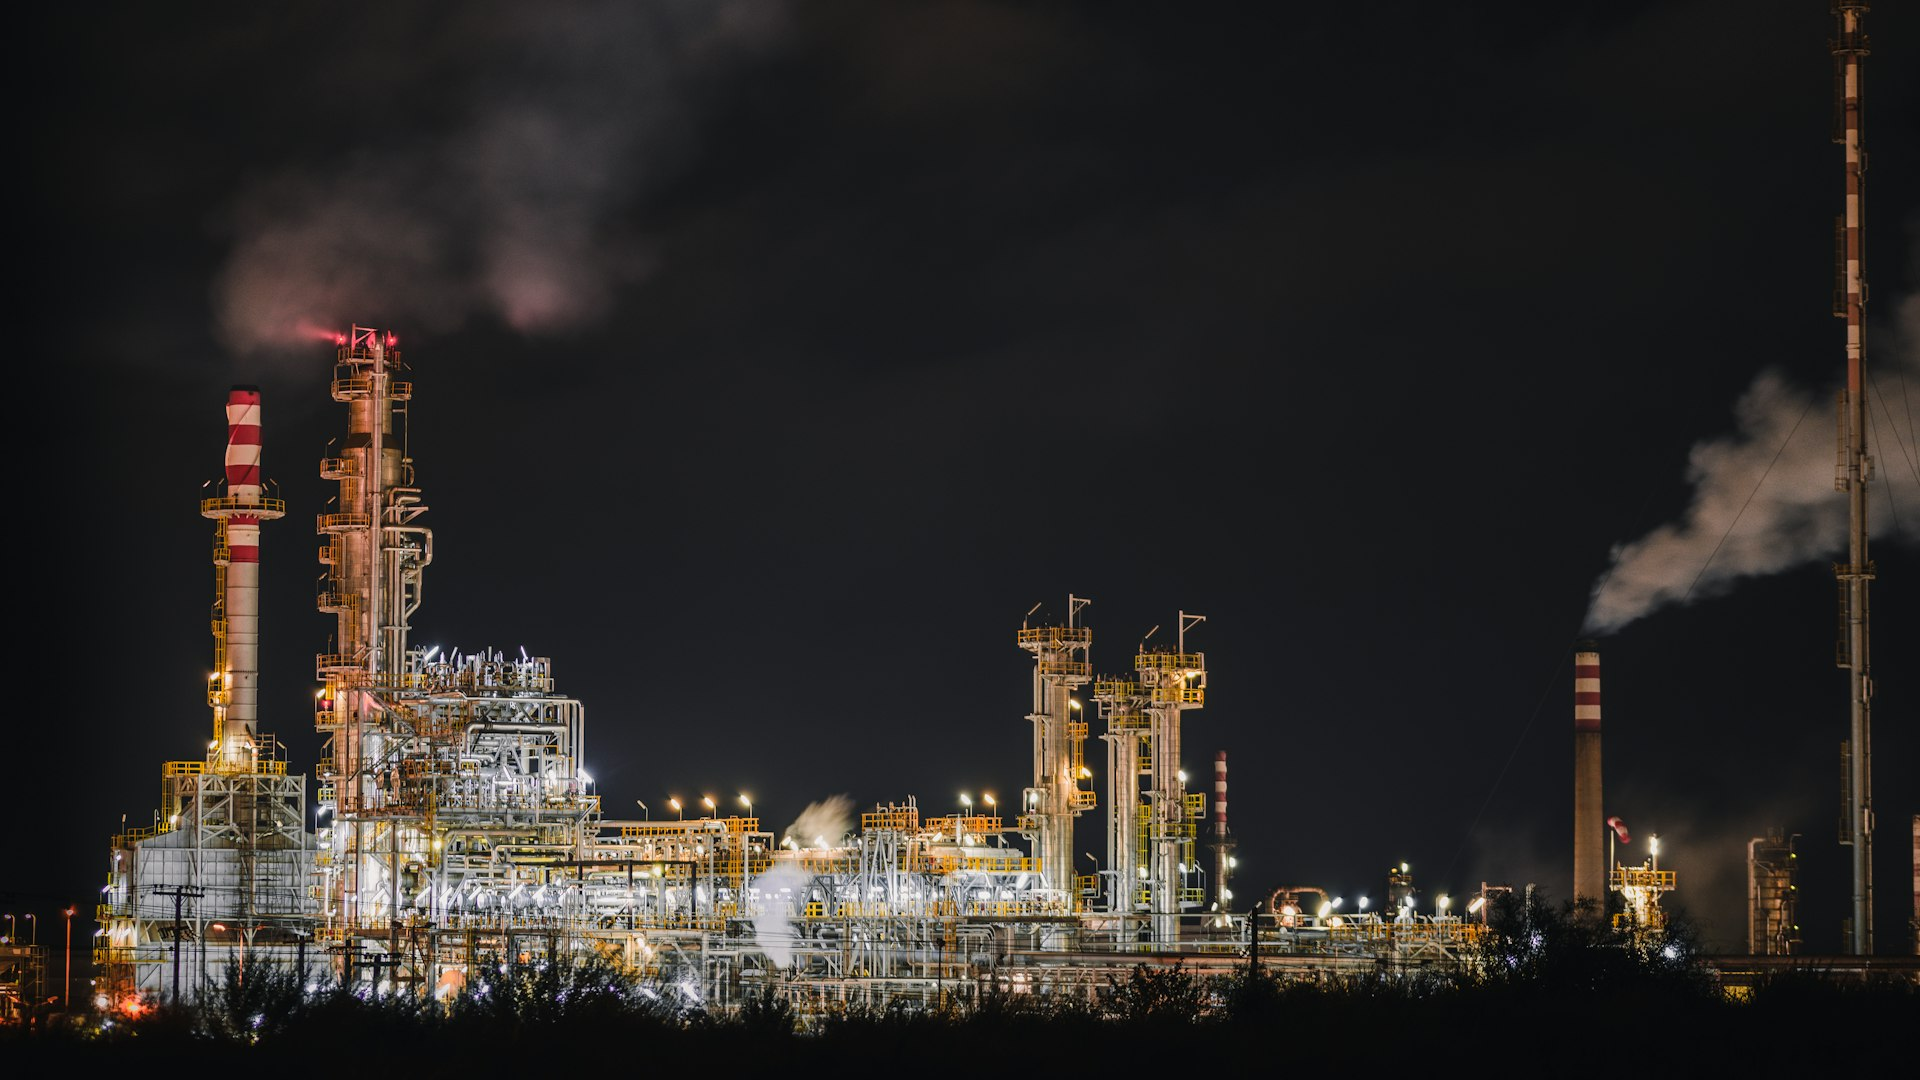
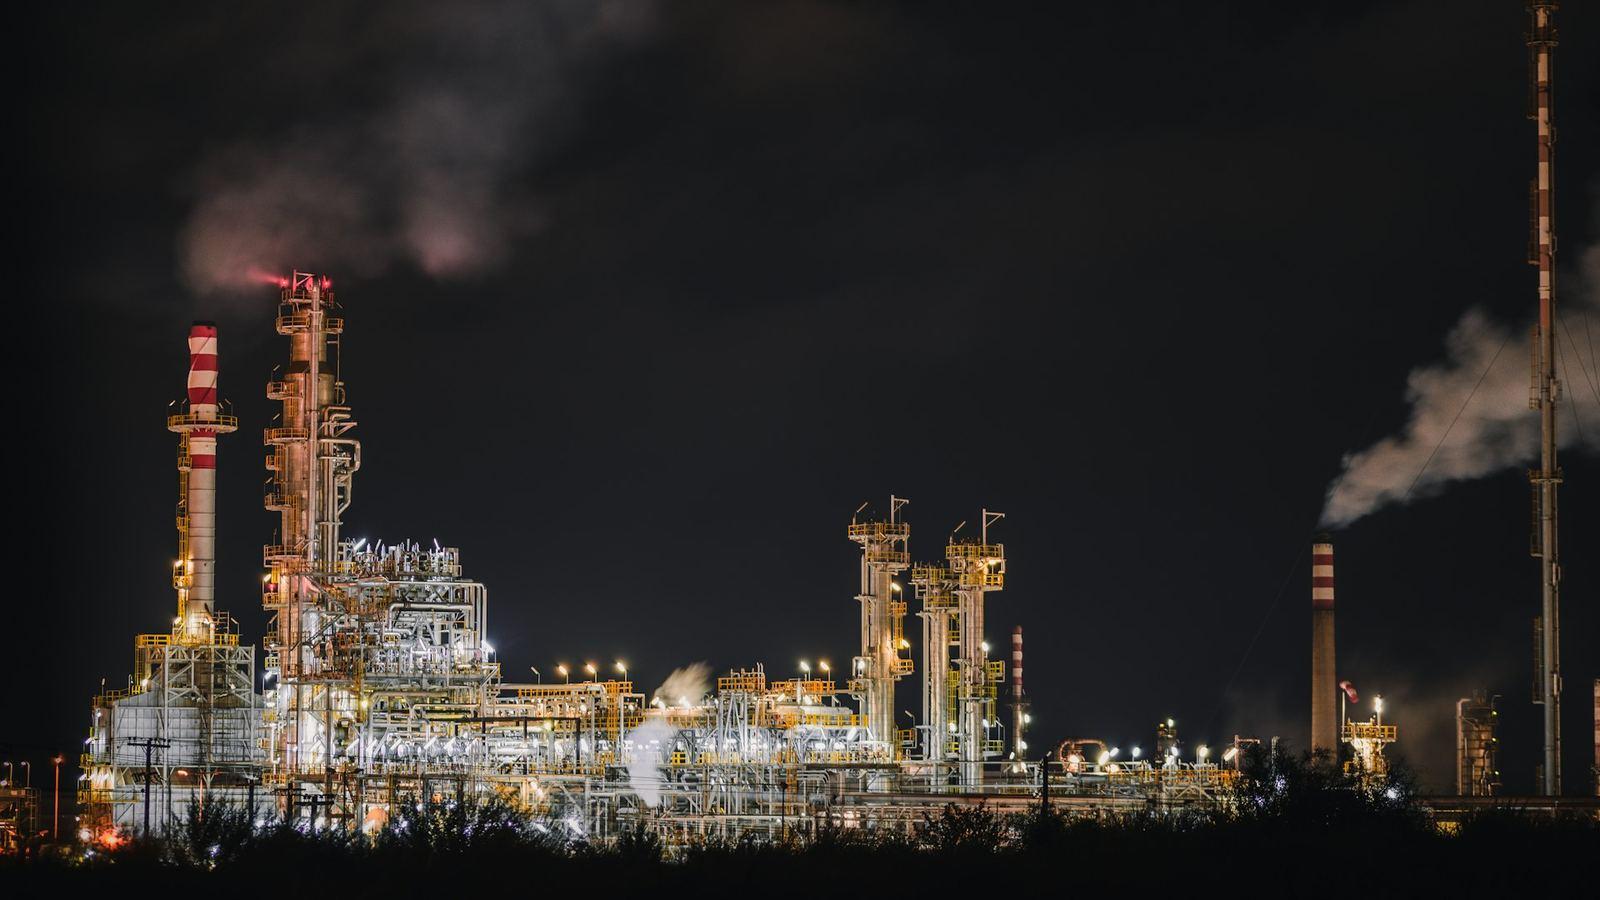
Speed up division-page images; regroup footer emails
Images
- Re-encode + right-size the division photos/covers in place (same paths,
  same shots): covers capped at 1600px, in-slot photos at 1200px, all
  progressive JPEG q78. The div/ asset bundle drops ~55% (9.6MB -> 4.3MB),
  so navigating between division pages no longer stalls on 0.5-1.7MB fetches.
- Add decoding="async" to the division <img> tags so large decodes stay
  off the main thread during route transitions.

Footer
- The three email addresses now share one "Email" label and stack on the
  right; phone desks follow. Rows collapse to label-above-value on phones.

diff --git a/web/src/styles/global.css b/web/src/styles/global.css
@@ -2063,8 +2063,9 @@ ul {
   color: #fff;
 }
 
-/* Label above value, one channel per row — keeps long email addresses and
-   phone numbers readable at any column width without truncating or colliding. */
+/* Label on the left, value(s) on the right, one channel per row. The email
+   row shares a single label for a stacked list of addresses. Rows wrap to
+   label-above-value when the column gets too narrow to hold both. */
 .footer-contact-list {
   margin-top: var(--space-4);
   padding: 0;
@@ -2074,14 +2075,16 @@ ul {
 
 .footer-contact-list li {
   display: flex;
-  flex-direction: column;
-  align-items: flex-start;
-  gap: 3px;
-  padding: 10px 0;
+  flex-wrap: wrap;
+  align-items: baseline;
+  justify-content: space-between;
+  gap: 4px 16px;
+  padding: 11px 0;
   border-bottom: 1px solid var(--border-inverse);
 }
 
 .footer-contact-list span {
+  flex: none;
   font-size: 0.6875rem;
   font-weight: 700;
   letter-spacing: 0.14em;
@@ -2094,13 +2097,45 @@ ul {
   font-size: 0.875rem;
   font-weight: 600;
   color: #fff;
-  text-align: left;
+  text-align: right;
   overflow-wrap: anywhere;
   word-break: break-word;
 }
 
 .footer-contact-list a:hover {
   color: var(--color-gold);
+}
+
+/* The three email addresses stack under the one "Email" label. */
+.footer-contact-emails {
+  align-items: flex-start;
+}
+
+.footer-contact-emails-list {
+  display: flex;
+  flex-direction: column;
+  align-items: flex-end;
+  gap: 4px;
+  min-width: 0;
+}
+
+/* Once a row wraps (narrow column / phone), push the value block full width
+   and left-align it so it reads as "label, then values" instead of a ragged
+   right edge. */
+@media (max-width: 480px) {
+  .footer-contact-list li {
+    gap: 3px;
+  }
+
+  .footer-contact-list span {
+    flex-basis: 100%;
+  }
+
+  .footer-contact-list a,
+  .footer-contact-emails-list {
+    text-align: left;
+    align-items: flex-start;
+  }
 }
 
 .newsletter {
@@ -5748,16 +5783,10 @@ tbody tr:hover {
     grid-template-columns: 1fr 1fr;
   }
 
-  /* Give the contact block the full row and lay its channels out two-up so
-     long email addresses have room to breathe on tablet widths. */
+  /* Give the contact block the full row so the email addresses and phone
+     desks have room to breathe on tablet widths. */
   .footer-contact {
     grid-column: 1 / -1;
-  }
-
-  .footer-contact-list {
-    display: grid;
-    grid-template-columns: repeat(2, minmax(0, 1fr));
-    column-gap: var(--space-8);
   }
 
   .marquee-track {
@@ -5842,11 +5871,6 @@ tbody tr:hover {
   .ds-grid-2,
   .ds-grid-3,
   .footer-grid {
-    grid-template-columns: 1fr;
-  }
-
-  /* Back to a single stacked list once the whole footer is one column. */
-  .footer-contact-list {
     grid-template-columns: 1fr;
   }
 

diff --git a/web/src/pages/DivisionPage.tsx b/web/src/pages/DivisionPage.tsx
@@ -58,7 +58,7 @@ export function DivisionsIndexPage() {
         >
           <div className={`container bd-entry ${i % 2 === 1 ? 'reverse' : ''}`}>
             <figure className="bd-entry-media">
-              <img src={entry.image} alt="" loading="lazy" />
+              <img src={entry.image} alt="" loading="lazy" decoding="async" />
             </figure>
             <div>
               <div className="eyebrow">{entry.eyebrow}</div>
@@ -85,7 +85,7 @@ export function DivisionsIndexPage() {
           <div className="biz-grid">
             {businesses.map((b) => (
               <Link to={divisionPath(b.slug)} className="biz-card" key={b.slug}>
-                <img src={b.image} alt="" loading="lazy" />
+                <img src={b.image} alt="" loading="lazy" decoding="async" />
                 <div className="biz-card-body">
                   <h3>{pick(b.label, lang)}</h3>
                   <p>{pick(b.description, lang)}</p>
@@ -129,7 +129,7 @@ export function DivisionPage({ slug }: { slug: string }) {
     <div className="division-page" data-division={division.theme}>
       {/* Section 1 — full-bleed cover */}
       <section className="division-cover">
-        <img src={division.cover} alt="" fetchPriority="high" />
+        <img src={division.cover} alt="" fetchPriority="high" decoding="async" />
         <div className="container division-cover-inner">
           <Breadcrumb trail={[{ label: t('navDivisions'), to: '/business-divisions' }, { label }]} />
           <h1>{label}</h1>
@@ -144,7 +144,7 @@ export function DivisionPage({ slug }: { slug: string }) {
             <p>{pick(division.description, lang)}</p>
           </div>
           <figure className="division-about-photo">
-            <img src={division.photo} alt="" loading="lazy" />
+            <img src={division.photo} alt="" loading="lazy" decoding="async" />
           </figure>
         </div>
       </section>

diff --git a/web/src/components/Layout.tsx b/web/src/components/Layout.tsx
@@ -263,17 +263,17 @@ export function Footer() {
               {t('footContactCta')}
             </Link>
 
-            {/* Each channel gets its own labelled row (label above value) so
-                long email addresses and phone numbers stay scannable and wrap
-                cleanly on narrow screens instead of running together. */}
+            {/* One labelled row per channel. The three email addresses share a
+                single "Email" label and stack on the right; the phone desks
+                follow. Everything wraps to label-above-value on narrow screens. */}
             <ul className="footer-contact-list">
-              <li>
-                <span>CEO</span>
-                <a href="mailto:ceo.yanvialex@gmail.com">ceo.yanvialex@gmail.com</a>
-              </li>
-              <li>
-                <span>Order</span>
-                <a href="mailto:order.petrotwoenergy@gmail.com">order.petrotwoenergy@gmail.com</a>
+              <li className="footer-contact-emails">
+                <span>Email</span>
+                <div className="footer-contact-emails-list">
+                  <a href={`mailto:${company.email}`}>{company.email}</a>
+                  <a href="mailto:ceo.yanvialex@gmail.com">ceo.yanvialex@gmail.com</a>
+                  <a href="mailto:order.petrotwoenergy@gmail.com">order.petrotwoenergy@gmail.com</a>
+                </div>
               </li>
               <li>
                 <span>Order Oil</span>
